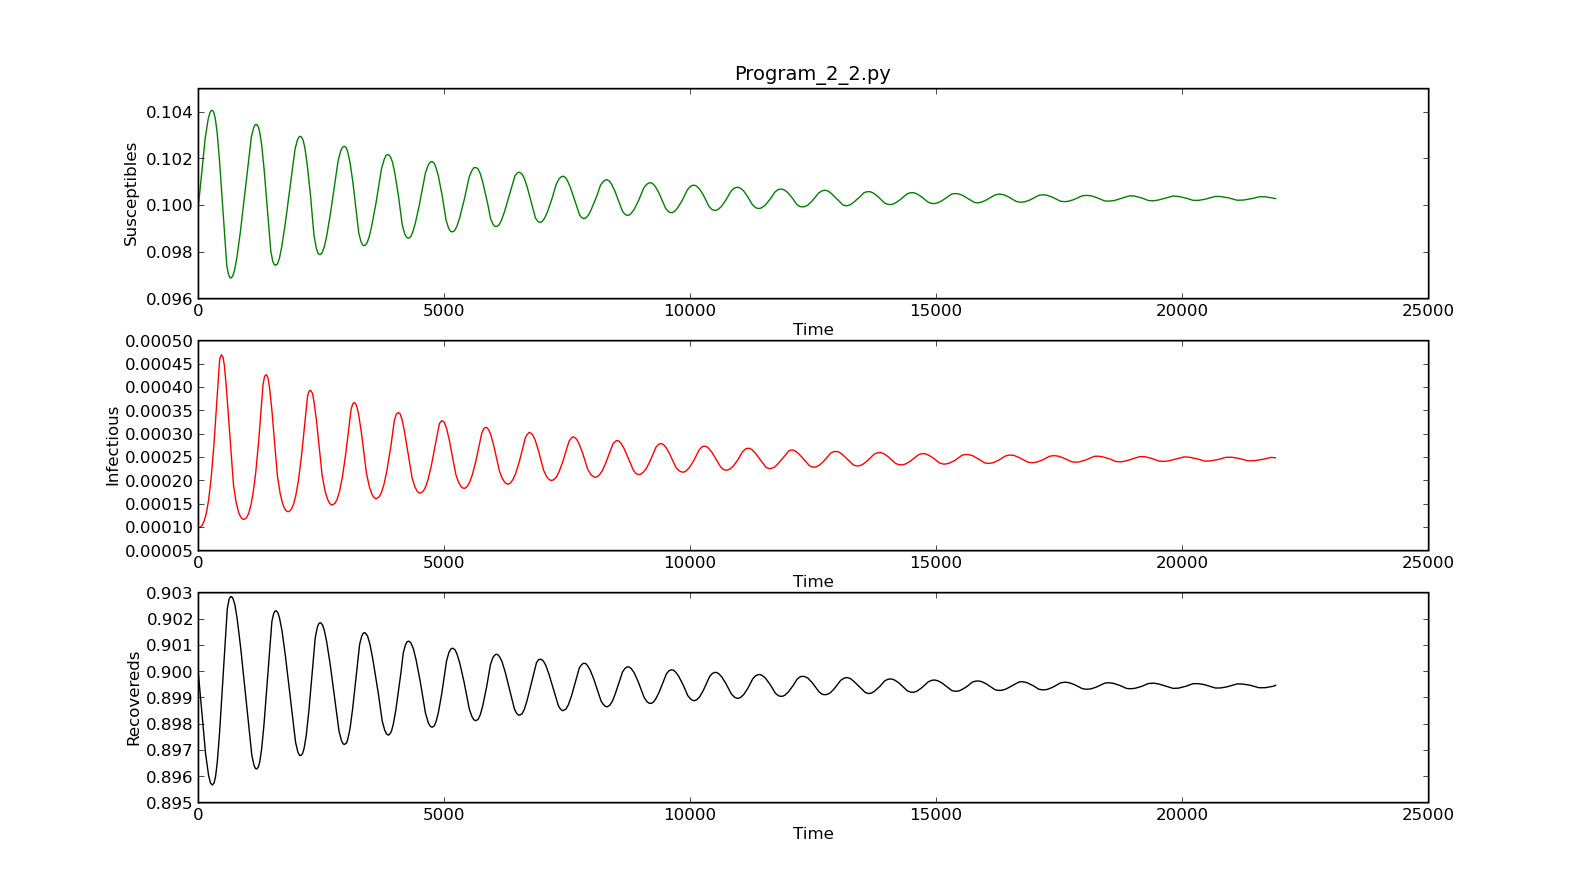
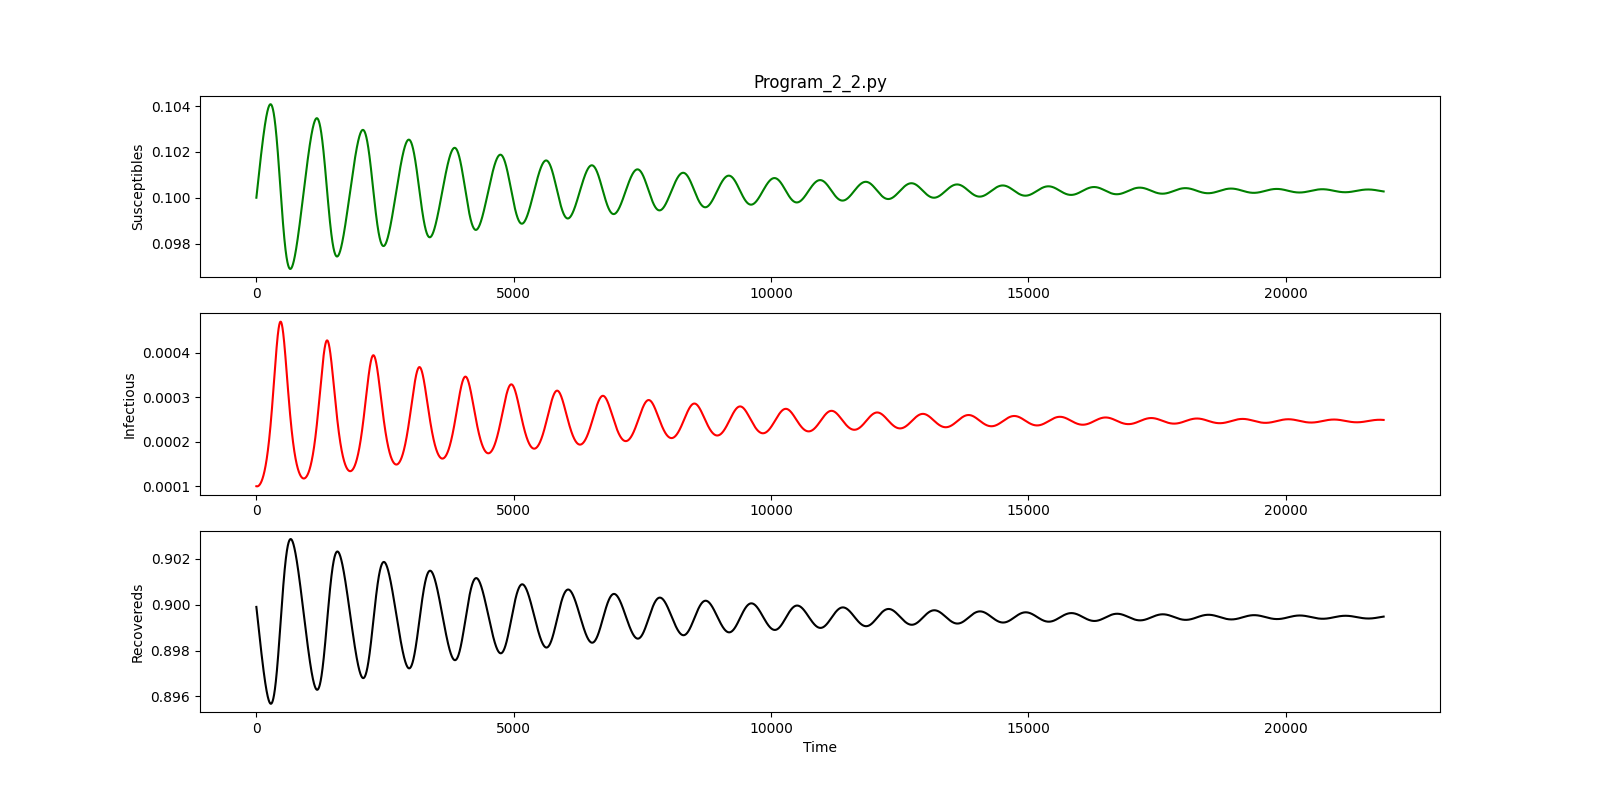
Fixed bugs saving figures on chapter 2

diff --git a/Python_3_Scripts/Chapter2/Program_2_3/Program_2_3.py b/Python_3_Scripts/Chapter2/Program_2_3/Program_2_3.py
@@ -65,5 +65,5 @@ pl.plot(sum((RES[:,0],RES[:,1],RES[:,2])), '--k', label='Total Population')
 pl.xlabel('Time')
 pl.legend(loc=0)
 pl.ylabel('Recovereds\nTotal Population')
-pl.title('Program_2_3.py')
+pl.savefig("Program_2_3.png")
 pl.show()

diff --git a/Python_3_Scripts/Chapter2/Program_2_4/Program_2_4.py b/Python_3_Scripts/Chapter2/Program_2_4/Program_2_4.py
@@ -65,5 +65,5 @@ pl.plot(sum((RES[:,0],RES[:,1],RES[:,2])), '--k', label='Total Population')
 pl.xlabel('Time')
 pl.legend(loc=0)
 pl.ylabel('Recovereds\nTotal Population')
-pl.title('Program_2_4.py')
+pl.savefig("Program_2_4.png")
 pl.show()

diff --git a/Python_3_Scripts/Chapter2/Program_2_2/Program_2_2.py b/Python_3_Scripts/Chapter2/Program_2_2/Program_2_2.py
@@ -59,5 +59,5 @@ pl.subplot(313)
 pl.plot(RES[:,2], '-k', label='Recovereds')
 pl.xlabel('Time')
 pl.ylabel('Recovereds')
-pl.title('Program_2_2.py')
+pl.savefig("Program_2_2.png")
 pl.show()
